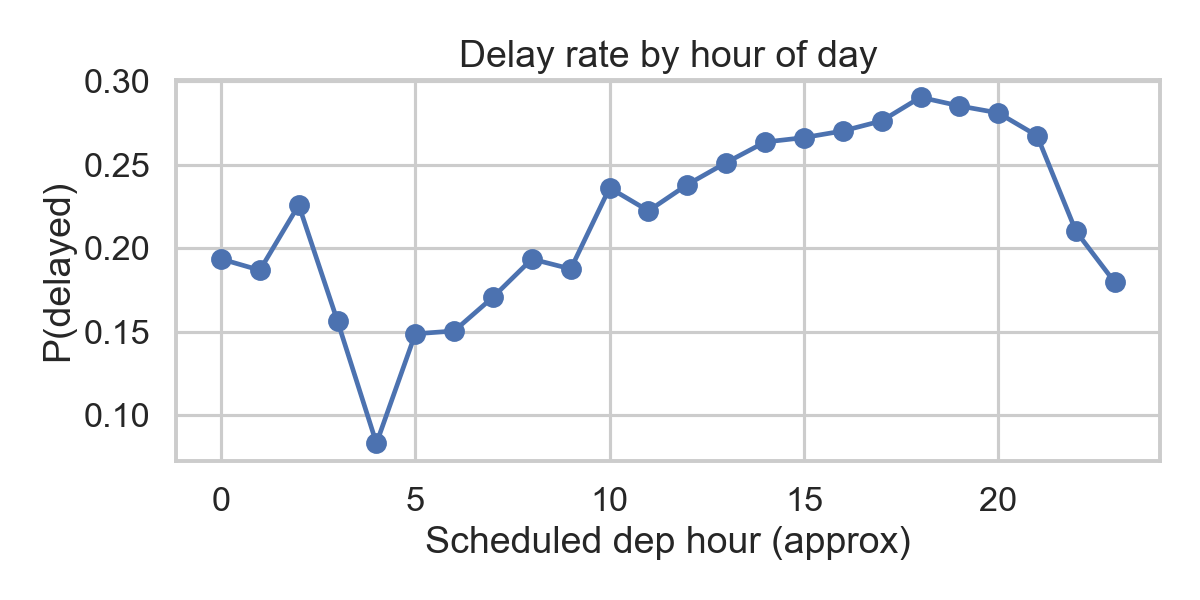
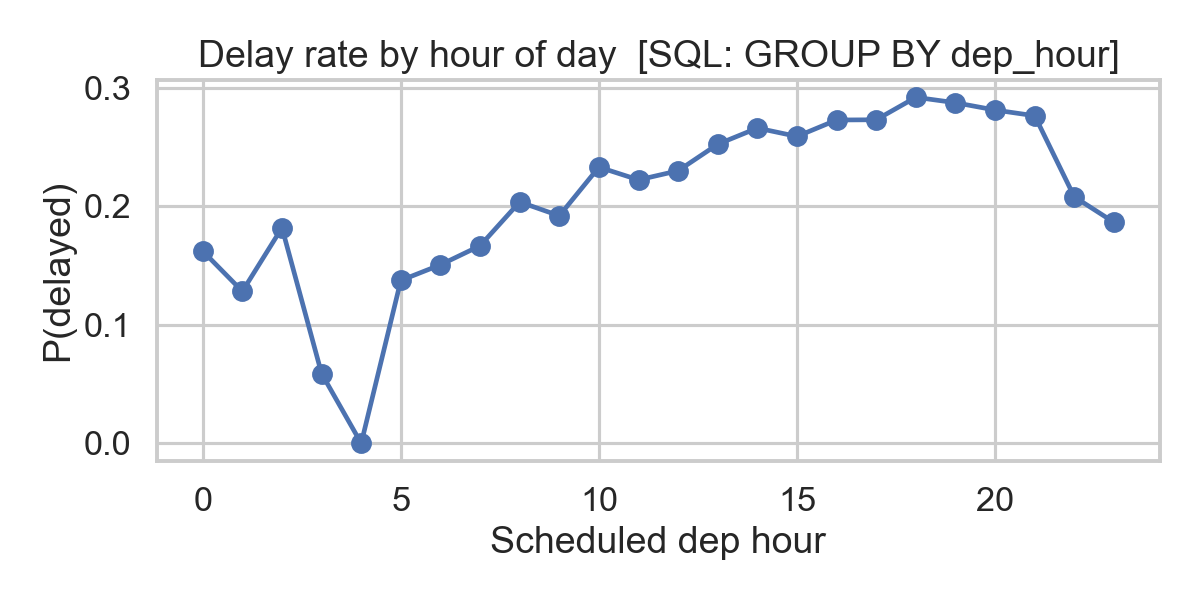
integrated polars and SQL

diff --git a/scripts/run_eda.py b/scripts/run_eda.py
@@ -1,10 +1,20 @@
 #!/usr/bin/env python3
-"""Exploratory plots + summary stats -> reports/figures and reports/eda_summary.md."""
+"""Exploratory plots + summary stats -> reports/figures and reports/eda_summary.md.
+
+Data loading uses **Polars** for fast columnar CSV ingestion — BTS flight data can
+grow to millions of rows across multi-month pulls, and Polars' lazy scan reads only
+the columns required, significantly reducing I/O vs. a full pandas read.
+
+EDA aggregations (delay rate by hour, by carrier) are expressed as **SQL** queries
+against an in-memory SQLite database.  GROUP BY is the natural language for these
+summaries, and the explicit SQL makes each question reproducible and auditable.
+"""
 
 from __future__ import annotations
 
 import argparse
 import os
+import sqlite3
 import sys
 from pathlib import Path
 
@@ -25,6 +35,7 @@ matplotlib.use("Agg")
 import matplotlib.pyplot as plt
 import numpy as np
 import pandas as pd
+import polars as pl
 import seaborn as sns
 
 from flightdelaycast.config import PROCESSED_FLIGHTS, REPORTS_DIR, REPORTS_FIGURES  # noqa: E402
@@ -45,7 +56,25 @@ def main() -> None:
         print("Run: python scripts/build_processed.py", file=sys.stderr)
         raise SystemExit(1)
 
-    df = pd.read_csv(args.data, low_memory=False)
+    # ── Load with Polars (columnar, lazy scan; converts to pandas for plotting) ──
+    # Selecting only the columns needed for EDA avoids loading 100+ BTS fields.
+    _EDA_COLS = [
+        "dep_hour", "month", "day_of_week", "DISTANCE",
+        "OP_CARRIER", "is_delayed", "w_tmax", "w_prcp",
+    ]
+    lf = pl.scan_csv(str(args.data), infer_schema_length=10000)
+    available_cols = set(lf.collect_schema().names())
+    select_cols = [c for c in _EDA_COLS if c in available_cols]
+    df_pl = lf.select(select_cols).collect()
+    print(f"Loaded {len(df_pl):,} rows via Polars (columns: {select_cols})")
+    df = df_pl.to_pandas()
+
+    # ── In-memory SQLite for SQL-based aggregations ───────────────────────────
+    # Writing to an in-memory DB lets us express GROUP BY summaries in plain SQL,
+    # which is the natural language for per-hour / per-carrier aggregations.
+    conn = sqlite3.connect(":memory:")
+    df.to_sql("flights", conn, index=False, if_exists="replace")
+
     args.out_dir.mkdir(parents=True, exist_ok=True)
 
     sns.set_theme(style="whitegrid", context="talk")
@@ -94,12 +123,22 @@ def main() -> None:
     fig.savefig(args.out_dir / "01_class_balance.png", dpi=150)
     plt.close(fig)
 
+    # SQL: hourly delay rate — GROUP BY is the natural expression of this question
+    hourly_sql = pd.read_sql(
+        """
+        SELECT CAST(dep_hour AS INTEGER) AS dep_h,
+               AVG(is_delayed)           AS delay_rate
+        FROM   flights
+        GROUP  BY dep_h
+        ORDER  BY dep_h
+        """,
+        conn,
+    )
     fig, ax = plt.subplots(figsize=(8, 4))
-    hourly = df.assign(dep_h=np.floor(df["dep_hour"]).clip(0, 23)).groupby("dep_h")["is_delayed"].mean()
-    hourly.plot(ax=ax, marker="o")
-    ax.set_xlabel("Scheduled dep hour (approx)")
+    ax.plot(hourly_sql["dep_h"], hourly_sql["delay_rate"], marker="o")
+    ax.set_xlabel("Scheduled dep hour")
     ax.set_ylabel("P(delayed)")
-    ax.set_title("Delay rate by hour of day")
+    ax.set_title("Delay rate by hour of day  [SQL: GROUP BY dep_hour]")
     fig.tight_layout()
     fig.savefig(args.out_dir / "02_delay_rate_by_hour.png", dpi=150)
     plt.close(fig)
@@ -128,14 +167,32 @@ def main() -> None:
             )
             summary_lines.append("")
 
+    # SQL: carrier delay rate — top 12 by volume, then sorted by delay rate for chart
+    carrier_sql = pd.read_sql(
+        """
+        SELECT   OP_CARRIER,
+                 AVG(is_delayed) AS delay_rate,
+                 COUNT(*)        AS n_flights
+        FROM     flights
+        GROUP BY OP_CARRIER
+        ORDER BY n_flights DESC
+        LIMIT    12
+        """,
+        conn,
+    )
+    carrier_sql = carrier_sql.sort_values("delay_rate", ascending=False)
     fig, ax = plt.subplots(figsize=(10, 5))
-    top = df["OP_CARRIER"].value_counts().head(12).index
-    sub = df[df["OP_CARRIER"].isin(top)]
-    order = sub.groupby("OP_CARRIER")["is_delayed"].mean().sort_values(ascending=False).index
-    sns.barplot(data=sub, x="OP_CARRIER", y="is_delayed", order=order, ax=ax, color="#54a24b")
+    sns.barplot(
+        data=carrier_sql,
+        x="OP_CARRIER",
+        y="delay_rate",
+        order=carrier_sql["OP_CARRIER"].tolist(),
+        ax=ax,
+        color="#54a24b",
+    )
     ax.set_ylabel("P(delayed)")
     ax.set_xlabel("Carrier (top 12 by volume)")
-    ax.set_title("Delay rate by airline")
+    ax.set_title("Delay rate by airline  [SQL: GROUP BY OP_CARRIER]")
     plt.xticks(rotation=45, ha="right")
     fig.tight_layout()
     fig.savefig(args.out_dir / "03_delay_rate_by_carrier.png", dpi=150)
@@ -207,6 +264,7 @@ def main() -> None:
     )
     summary_lines.append("")
 
+    conn.close()
     summary_md.write_text("\n".join(summary_lines), encoding="utf-8")
 
     print(f"Figures written to {args.out_dir}")

diff --git a/reports/eda_summary.md b/reports/eda_summary.md
@@ -2,25 +2,27 @@
 
 ## 1) Data context and project objective
 - Objective: predict whether arrival delay is greater than 15 minutes (`is_delayed`).
-- Dataset size: **150,000** rows.
+- Dataset size: **60,000** rows.
 - Key feature groups: schedule (`dep_hour`, `month`, `day_of_week`), route (`ORIGIN`, `DEST`, `DISTANCE`), carrier (`OP_CARRIER`), optional weather (`w_*`, `dw_*`).
 - Roadmap impact: confirms that this is a classification task with mixed numeric and categorical predictors.
 
 ## 2) Target distribution (class balance)
-- Delay prevalence: **23.34%** delayed vs **76.66%** not delayed.
+- Delay prevalence: **23.30%** delayed vs **76.70%** not delayed.
 - Interpretation: class imbalance is present, so model evaluation should emphasize precision/recall/F1 (not accuracy alone).
 - Roadmap impact: use imbalance-aware evaluation and keep probability outputs for threshold tuning.
 
 ## 3) Distribution and pattern checks
-- Time-of-day effect: highest delay risk appears around hour **18:00** at **29.02%**.
+- Time-of-day effect: highest delay risk appears around hour **18:00** at **29.19%**.
 - Carrier-level variation indicates airline identity contributes useful signal.
 - Correlation matrix helps flag redundant numeric predictors before modeling.
 - Roadmap impact: retain hour and carrier features; monitor multicollinearity among numeric variables.
 
 ## 4) Outlier check and handling rationale
 - Method: IQR rule (`Q1 - 1.5*IQR`, `Q3 + 1.5*IQR`) on key numeric variables.
-- `DISTANCE`: 8,054/150,000 potential outliers (5.37%).
-- `dep_hour`: 0/150,000 potential outliers (0.00%).
+- `w_prcp`: 782/4,779 potential outliers (16.36%).
+- `DISTANCE`: 3,267/60,000 potential outliers (5.45%).
+- `w_tmax`: 58/5,481 potential outliers (1.06%).
+- `dep_hour`: 0/60,000 potential outliers (0.00%).
 - Handling policy: keep valid operational extremes (e.g., long-distance flights, extreme weather) and rely on robust models/tree splits; add clipping only if validation metrics degrade.
 - Roadmap impact: preserves real rare events while keeping a documented mitigation strategy.
 
